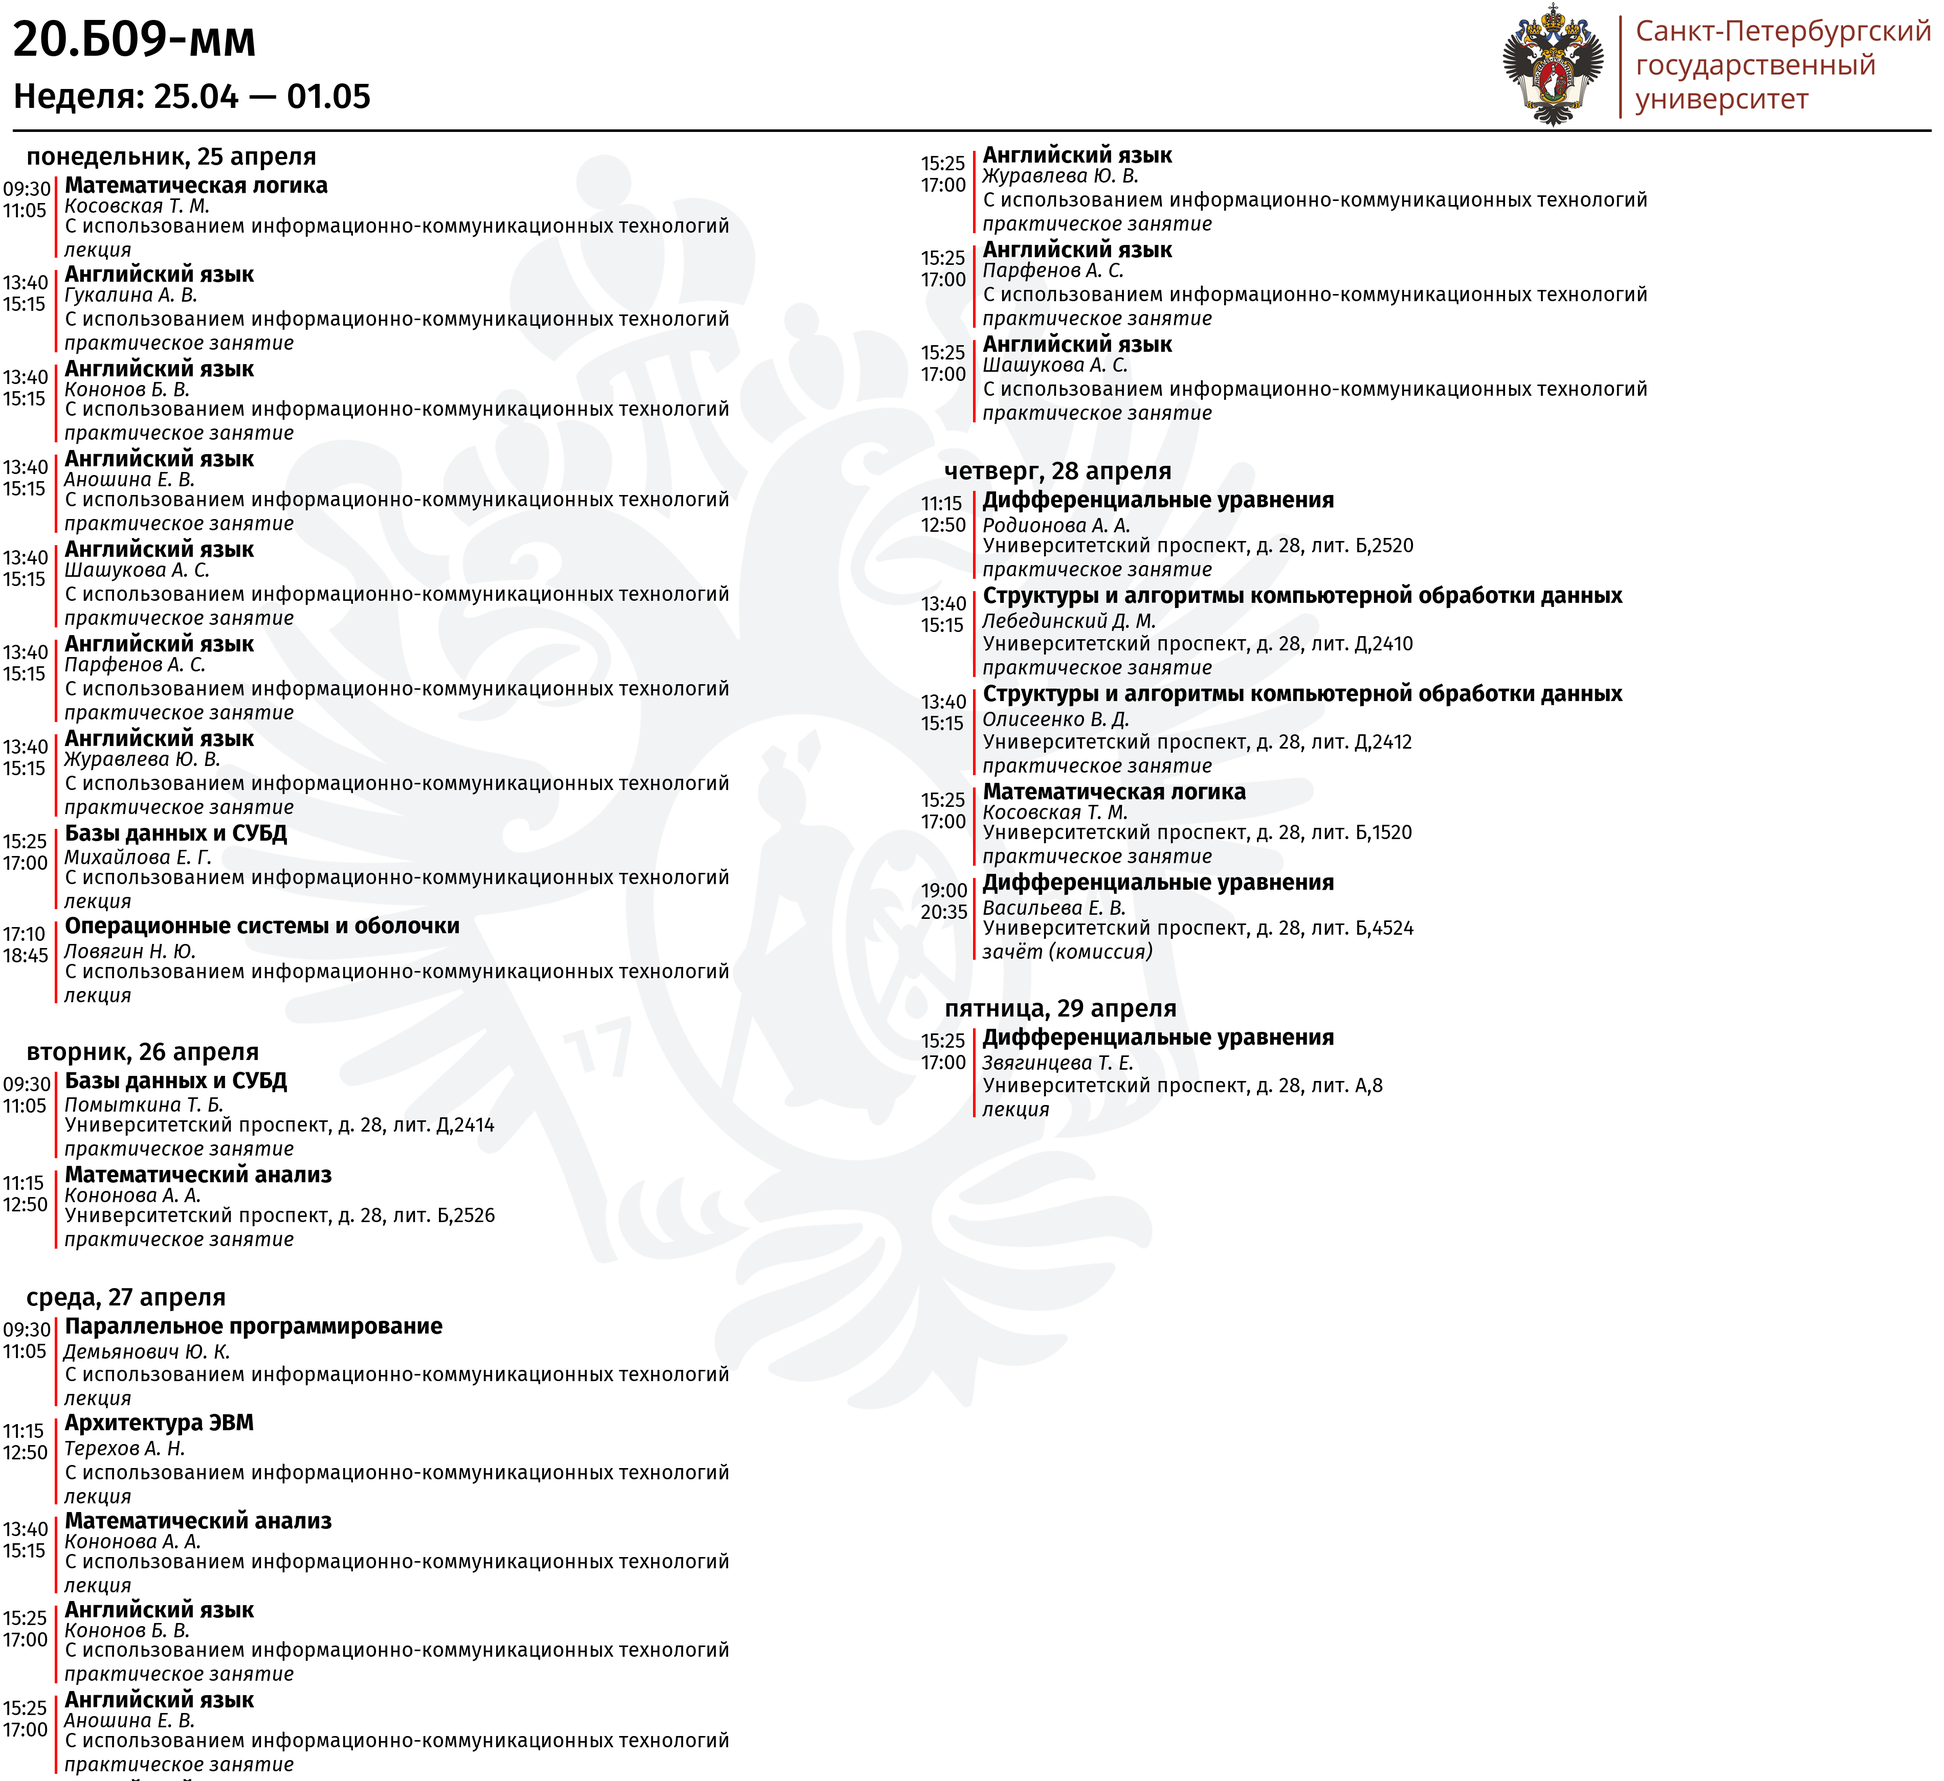
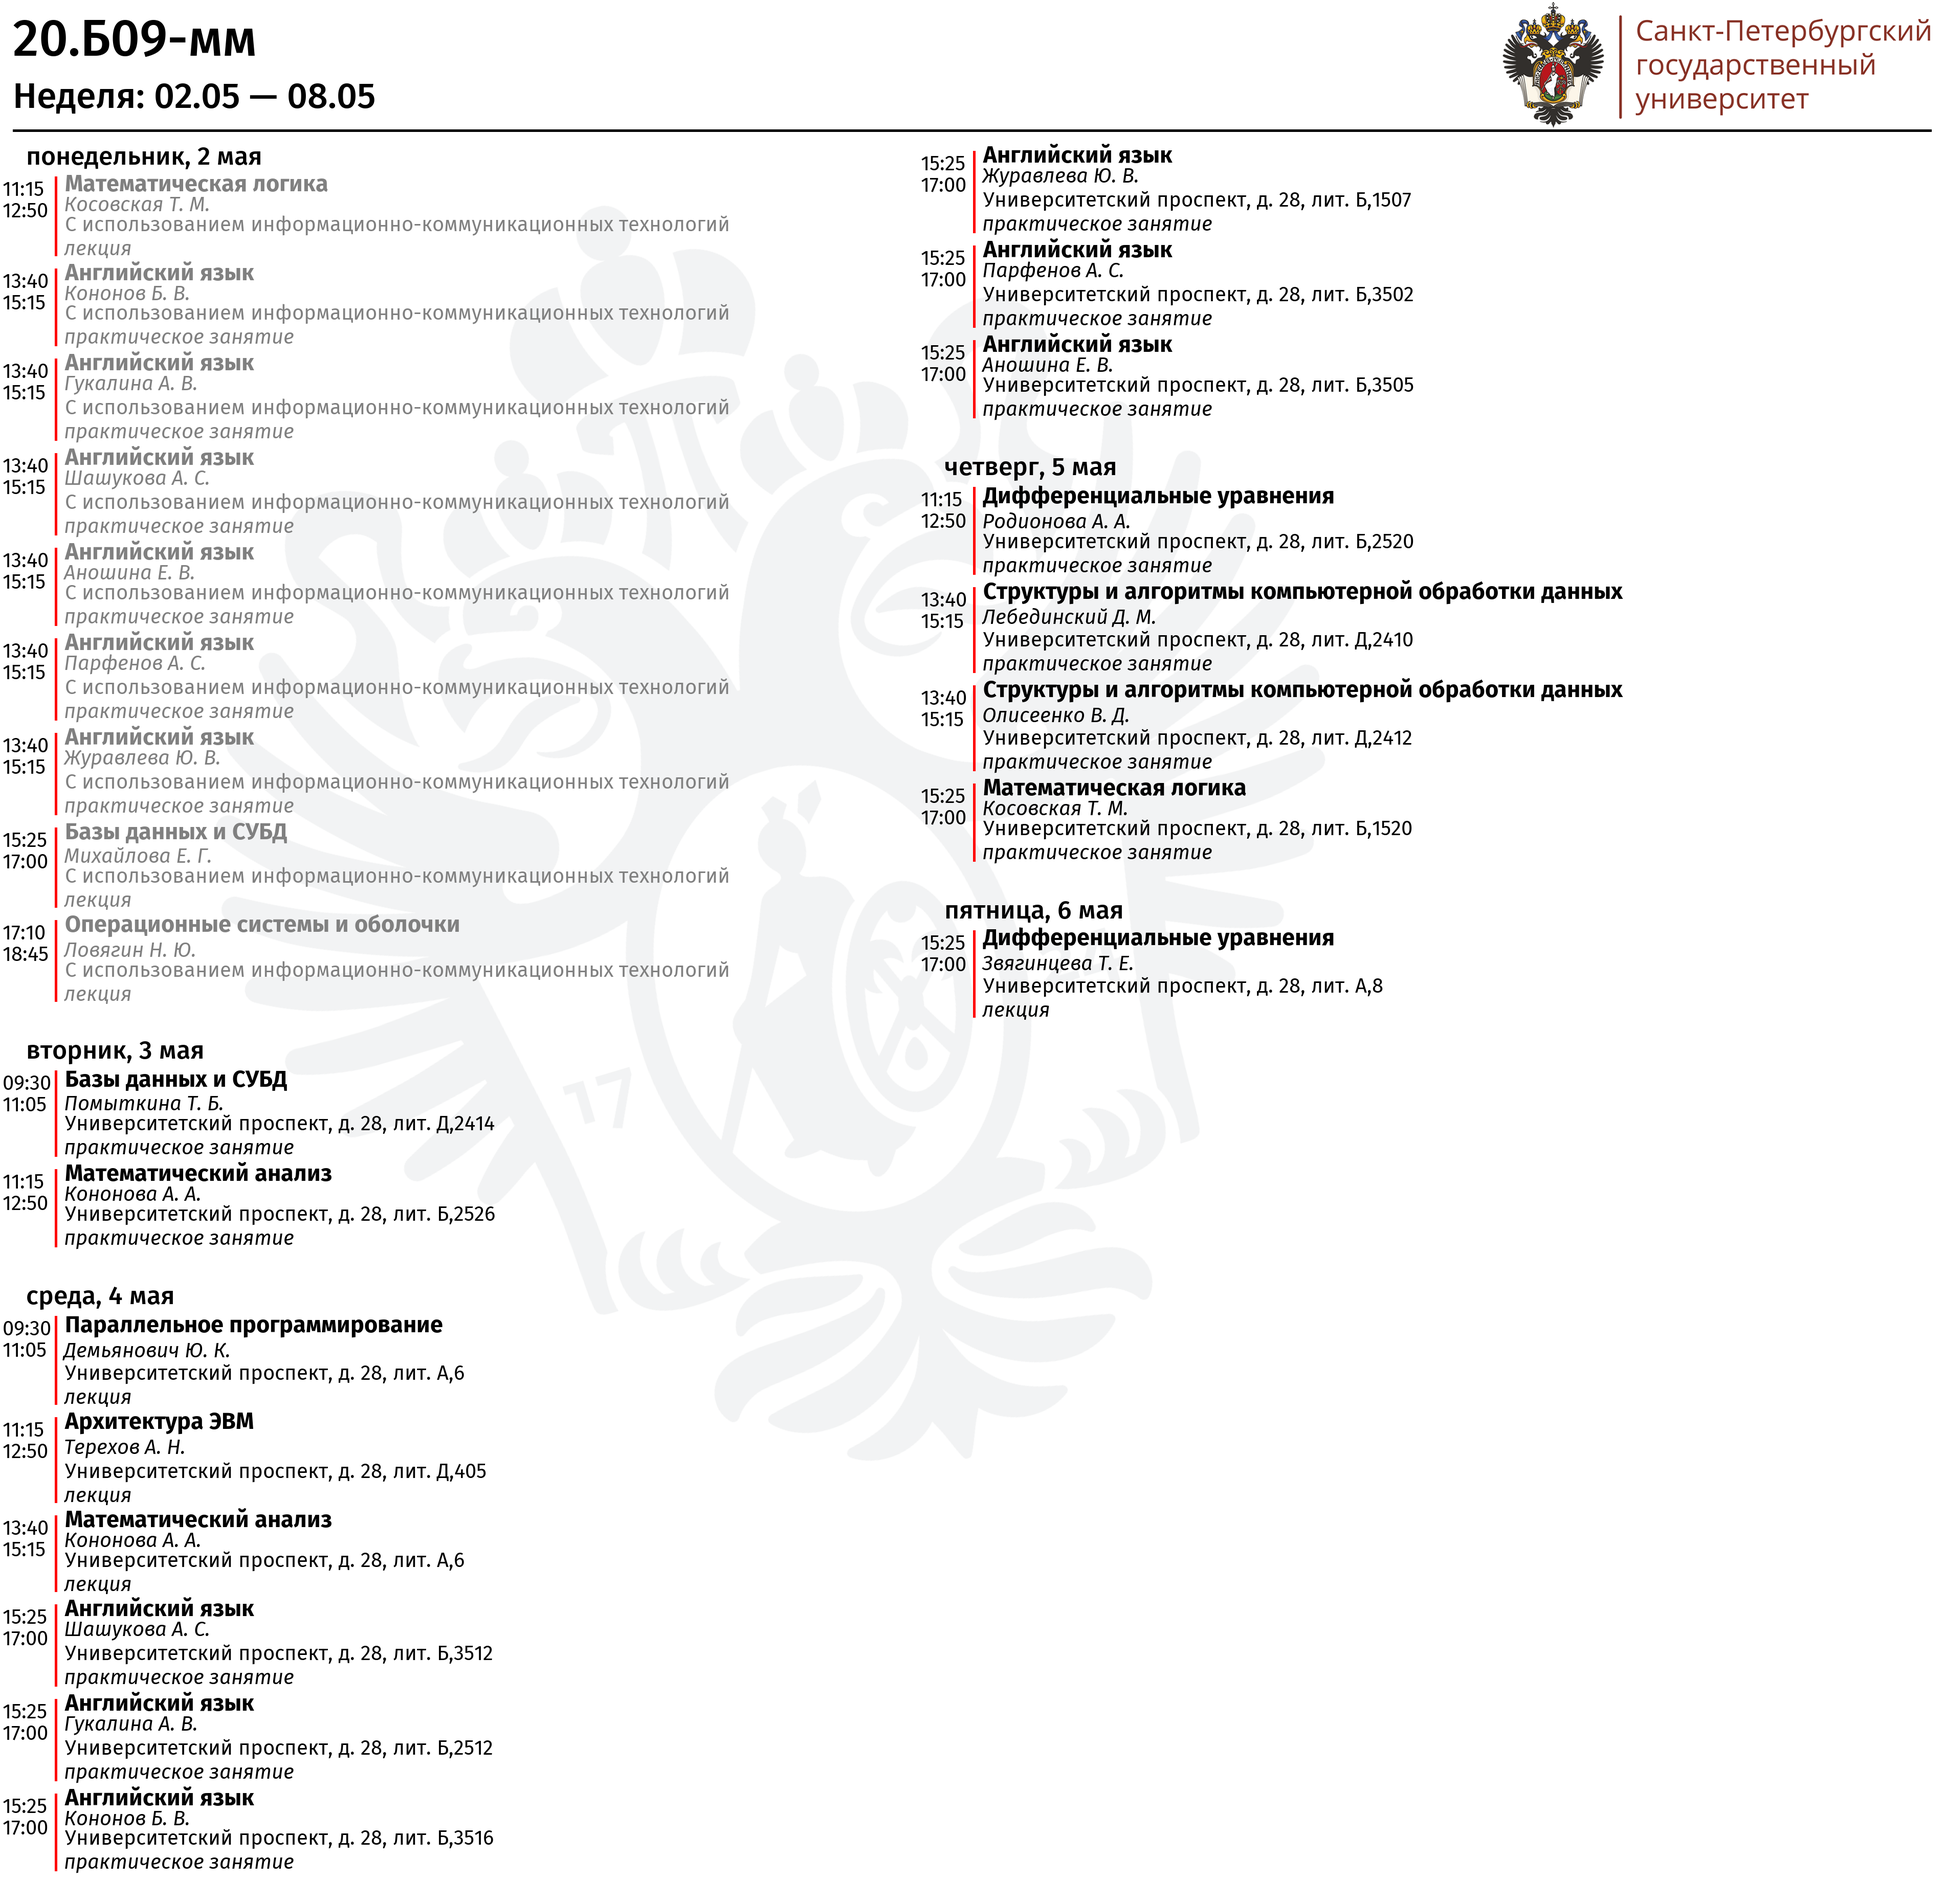
Teacher's schedule picture

Changed region(s): [[0.0, 0.0, 0.9937, 1.0], [0.2174, 0.3721, 0.2795, 0.4031]]

diff --git a/utils/timetable/get_teacher_timetable.py b/utils/timetable/get_teacher_timetable.py
@@ -18,11 +18,17 @@ async def get_teacher_timetable(tt_id: id, is_picture: bool, week_counter: int =
     if week_counter is not None:
         monday, sunday = await calculator_of_week_days(week_counter)
         timetable_db = await get_teacher_timetable_week_from_db(teacher_spbu_db.teacher_spbu_id, monday, sunday)
-        timetable_text = await get_text_teacher_timetable_week(tt_id, teacher_spbu_db.full_name, monday, sunday, timetable_db)
+        if is_picture:
+            timetable_text = await get_image_teacher_timetable_week(tt_id, teacher_spbu_db.full_name, monday, sunday, timetable_db)
+        else:
+            timetable_text = await get_text_teacher_timetable_week(tt_id, teacher_spbu_db.full_name, monday, sunday, timetable_db)
     else:
         current_date, next_day = await calculator_of_days(day_counter)
         timetable_db = await get_teacher_timetable_day_from_db(teacher_spbu_db.teacher_spbu_id, current_date)
-        timetable_text = await get_text_teacher_timetable_day(tt_id, teacher_spbu_db.full_name, current_date, timetable_db)
+        if is_picture:
+            timetable_text = await get_image_teacher_timetable_day(tt_id, teacher_spbu_db.full_name, current_date, timetable_db)
+        else:
+            timetable_text = await get_text_teacher_timetable_day(tt_id, teacher_spbu_db.full_name, current_date, timetable_db)
     return timetable_text
 
 
@@ -40,6 +46,19 @@ async def get_text_teacher_timetable_day(teacher_id: int, teacher_name: str, cur
     return timetable
 
 
+async def get_image_teacher_timetable_day(group_id: int, group_name: str, current_date: date, timetable_db) -> str:
+    timetable = await teacher_timetable_day_header(group_id, current_date, group_name)
+
+    schedule_pic = TimetableIMG("utils/image_converter/output.png")
+    schedule_pic.create_image_title(title=group_name, date=format_date(current_date, 'EEEE, d MMMM', locale='ru_RU'))
+
+    if len(timetable_db[0].events) > 0:
+        schedule_pic.insert_timetable(date=format_date(timetable_db[0].date, 'EEEE, d MMMM', locale='ru_RU'),
+                                      events=timetable_db[0].events)
+    schedule_pic.crop_image()
+    return timetable
+
+
 async def get_text_teacher_timetable_week(teacher_id: int, teacher_name: str, monday: date, sunday: date,
                                           timetable_db) -> str:
     timetable = await teacher_timetable_week_header(teacher_id, monday, sunday, teacher_name)
@@ -54,6 +73,20 @@ async def get_text_teacher_timetable_week(teacher_id: int, teacher_name: str, mo
                 break
     else:
         timetable += '\n🏖 <i>Занятий на этой неделе нет</i>'
+    return timetable
+
+
+async def get_image_teacher_timetable_week(group_id: int, group_name: str, monday: date, sunday: date, timetable_db) -> str:
+    timetable = await teacher_timetable_week_header(group_id, monday, sunday, group_name)
+
+    schedule_pic = TimetableIMG("utils/image_converter/output.png")
+    schedule_pic.create_image_title(title=group_name, date="Неделя: {monday} — {sunday}".format(
+        monday=monday.strftime("%d.%m"), sunday=sunday.strftime("%d.%m")))
+    if len(timetable_db) > 0:
+        for day in timetable_db:
+            schedule_pic.insert_timetable(date=format_date(day.date, 'EEEE, d MMMM', locale='ru_RU'),
+                                          events=day.events)
+    schedule_pic.crop_image()
     return timetable
 
 

diff --git a/utils/image_converter/new_converter.py b/utils/image_converter/new_converter.py
@@ -46,35 +46,41 @@ class TimetableIMG:
         self._y = self._y_foundation = self._y_max = y
         image.save(self._path_final_img)
 
-    def _draw_text(self, xy: tuple, text: str, font: ImageFont, offset_x: int = 0) -> tuple:
+    def _draw_text(self, xy: tuple, text: str, font: ImageFont, event_cancelled: bool = False) -> tuple:
         image = self._current_image
         draw = ImageDraw.Draw(image)
         x, y = xy
         lines = textwrap.wrap(text, width=self._final_img_width * 0.9 // font.size)
         for line in lines:
             width, height = font.getsize(line)
-            draw.text((x, y), f"  {line}", font=font, fill="black")
+            draw.text((x, y), f"  {line}", font=font, fill="grey" if event_cancelled else "black")
             y += height
-        x += offset_x
         return x, y
 
     def insert_timetable(self, date: str, events: list):
         image = self._current_image
         draw = ImageDraw.Draw(image)
         skip, indent = 10, 80
-        x, y = self._draw_text(xy=(self._x, self._y), text=date, font=TimetableIMG._font_h3, offset_x=indent)
+        x, y = self._draw_text(xy=(self._x, self._y), text=date, font=TimetableIMG._font_h3)
+        x += indent
         self._y += TimetableIMG._font_h3.size + skip
         for event in events:
-            x, y = self._draw_text(xy=(x, y), text=event.subject_name, font=TimetableIMG._font_bold, offset_x=0)
-            x, y = self._draw_text(xy=(x, y), text=event.educator, font=TimetableIMG._font_italic, offset_x=0)
-            x, y = self._draw_text(xy=(x, y), text=event.locations, font=TimetableIMG._font_reqular, offset_x=0)
-            x, y = self._draw_text(xy=(x, y), text=event.subject_format, font=TimetableIMG._font_italic, offset_x=0)
+            x, y = self._draw_text(xy=(x, y), text=event.subject_name,
+                                   font=TimetableIMG._font_bold, event_cancelled=event.is_canceled)
+            x, y = self._draw_text(xy=(x, y), text=event.educator if hasattr(event, "educator") else event.groups,
+                                   font=TimetableIMG._font_italic, event_cancelled=event.is_canceled)
+            x, y = self._draw_text(xy=(x, y), text=event.locations,
+                                   font=TimetableIMG._font_reqular, event_cancelled=event.is_canceled)
+            x, y = self._draw_text(xy=(x, y), text=event.subject_format,
+                                   font=TimetableIMG._font_italic, event_cancelled=event.is_canceled)
             draw.line(xy=[(x + 4, self._y + skip), (x + 4, y - skip // 2)], fill="red", width=5)
             draw.text(xy=(x - 100, self._y + skip),
                       text="{}\n{}".format(event.start_time.strftime("%H:%M"), event.end_time.strftime("%H:%M")),
                       font=TimetableIMG._font_reqular, fill="black")
             if y > self._y_max:
                 self._y_max = y
+            if y > self._final_img_width - 300 and x >= self._final_img_width // 2:
+                break
             if y > self._final_img_width - 300:
                 x, y = self._final_img_width // 2, self._y_foundation
             self._x, self._y = x, y + skip

diff --git a/tgbot/handlers/users/timetable.py b/tgbot/handlers/users/timetable.py
@@ -16,7 +16,7 @@ async def timetable_keyboard_handler_helper(query: CallbackQuery, state_data: di
     if is_picture:
         answer_msg = await query.message.edit_media(media=InputMedia(
             media=InputFile("utils/image_converter/output.png")))
-        await answer_msg.edit_caption(caption=text.split('\n')[1] + "\nТЕСТОВЫЙ РЕЖИМ!!!")
+        await answer_msg.edit_caption(caption=text.split('\n')[1])
     else:
         answer_msg = await query.message.edit_text(text=text)
 
@@ -116,7 +116,7 @@ async def timetable_type_handler(query: CallbackQuery, callback_data: dict, stat
 
     if is_picture:
         answer_msg = await query.message.answer_photo(photo=InputFile("utils/image_converter/output.png"))
-        await answer_msg.edit_caption(caption=text.split('\n')[1] + "\nТЕСТОВЫЙ РЕЖИМ!!!")
+        await answer_msg.edit_caption(caption=text.split('\n')[1])
     else:
         answer_msg = await query.message.answer(text=text)
     await query.message.delete()

diff --git a/tgbot/handlers/users/helpers.py b/tgbot/handlers/users/helpers.py
@@ -50,7 +50,7 @@ async def send_teacher_schedule(message: Message, callback_data: dict, state: FS
 async def create_answer_based_on_content(message: Message, text: str, is_picture: bool) -> Message:
     if is_picture:
         answer_msg = await message.answer_photo(photo=InputFile("utils/image_converter/output.png"))
-        await answer_msg.edit_caption(caption=text.split('\n')[1] + "\nТЕСТОВЫЙ РЕЖИМ!!!")
+        await answer_msg.edit_caption(caption=text.split('\n')[1])
         await message.delete()
     else:
         answer_msg = await message.edit_text(text)
